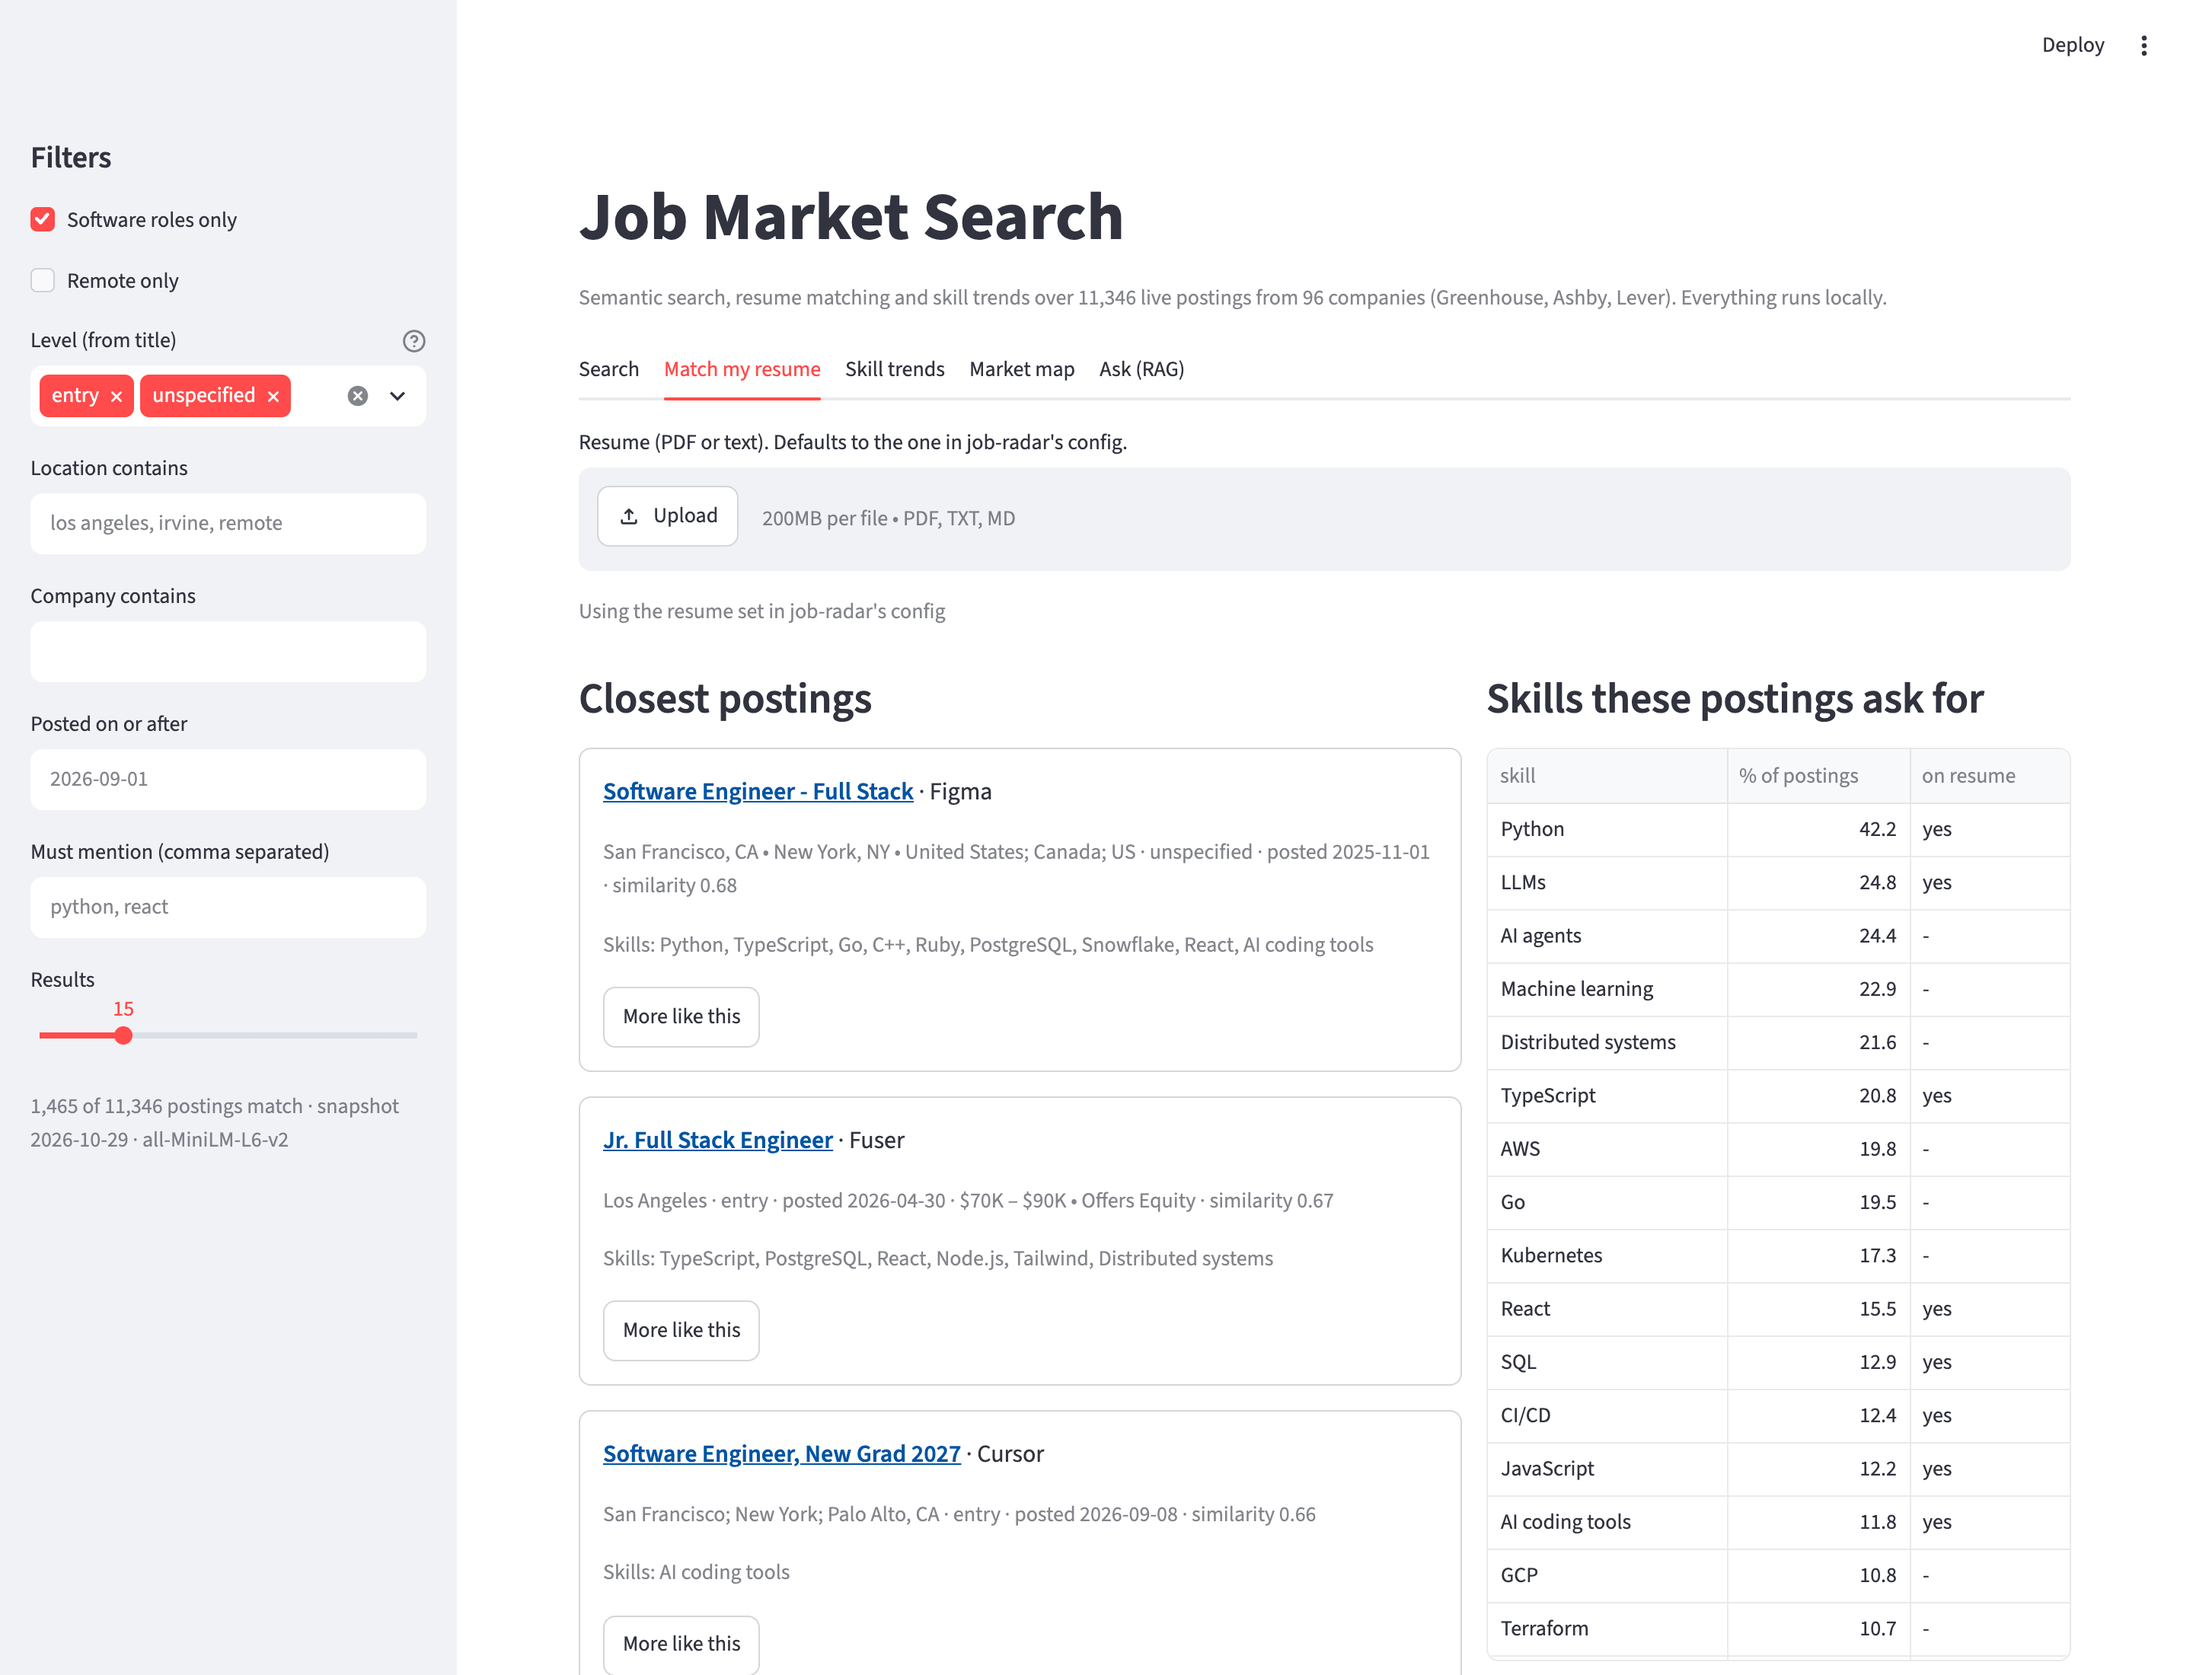
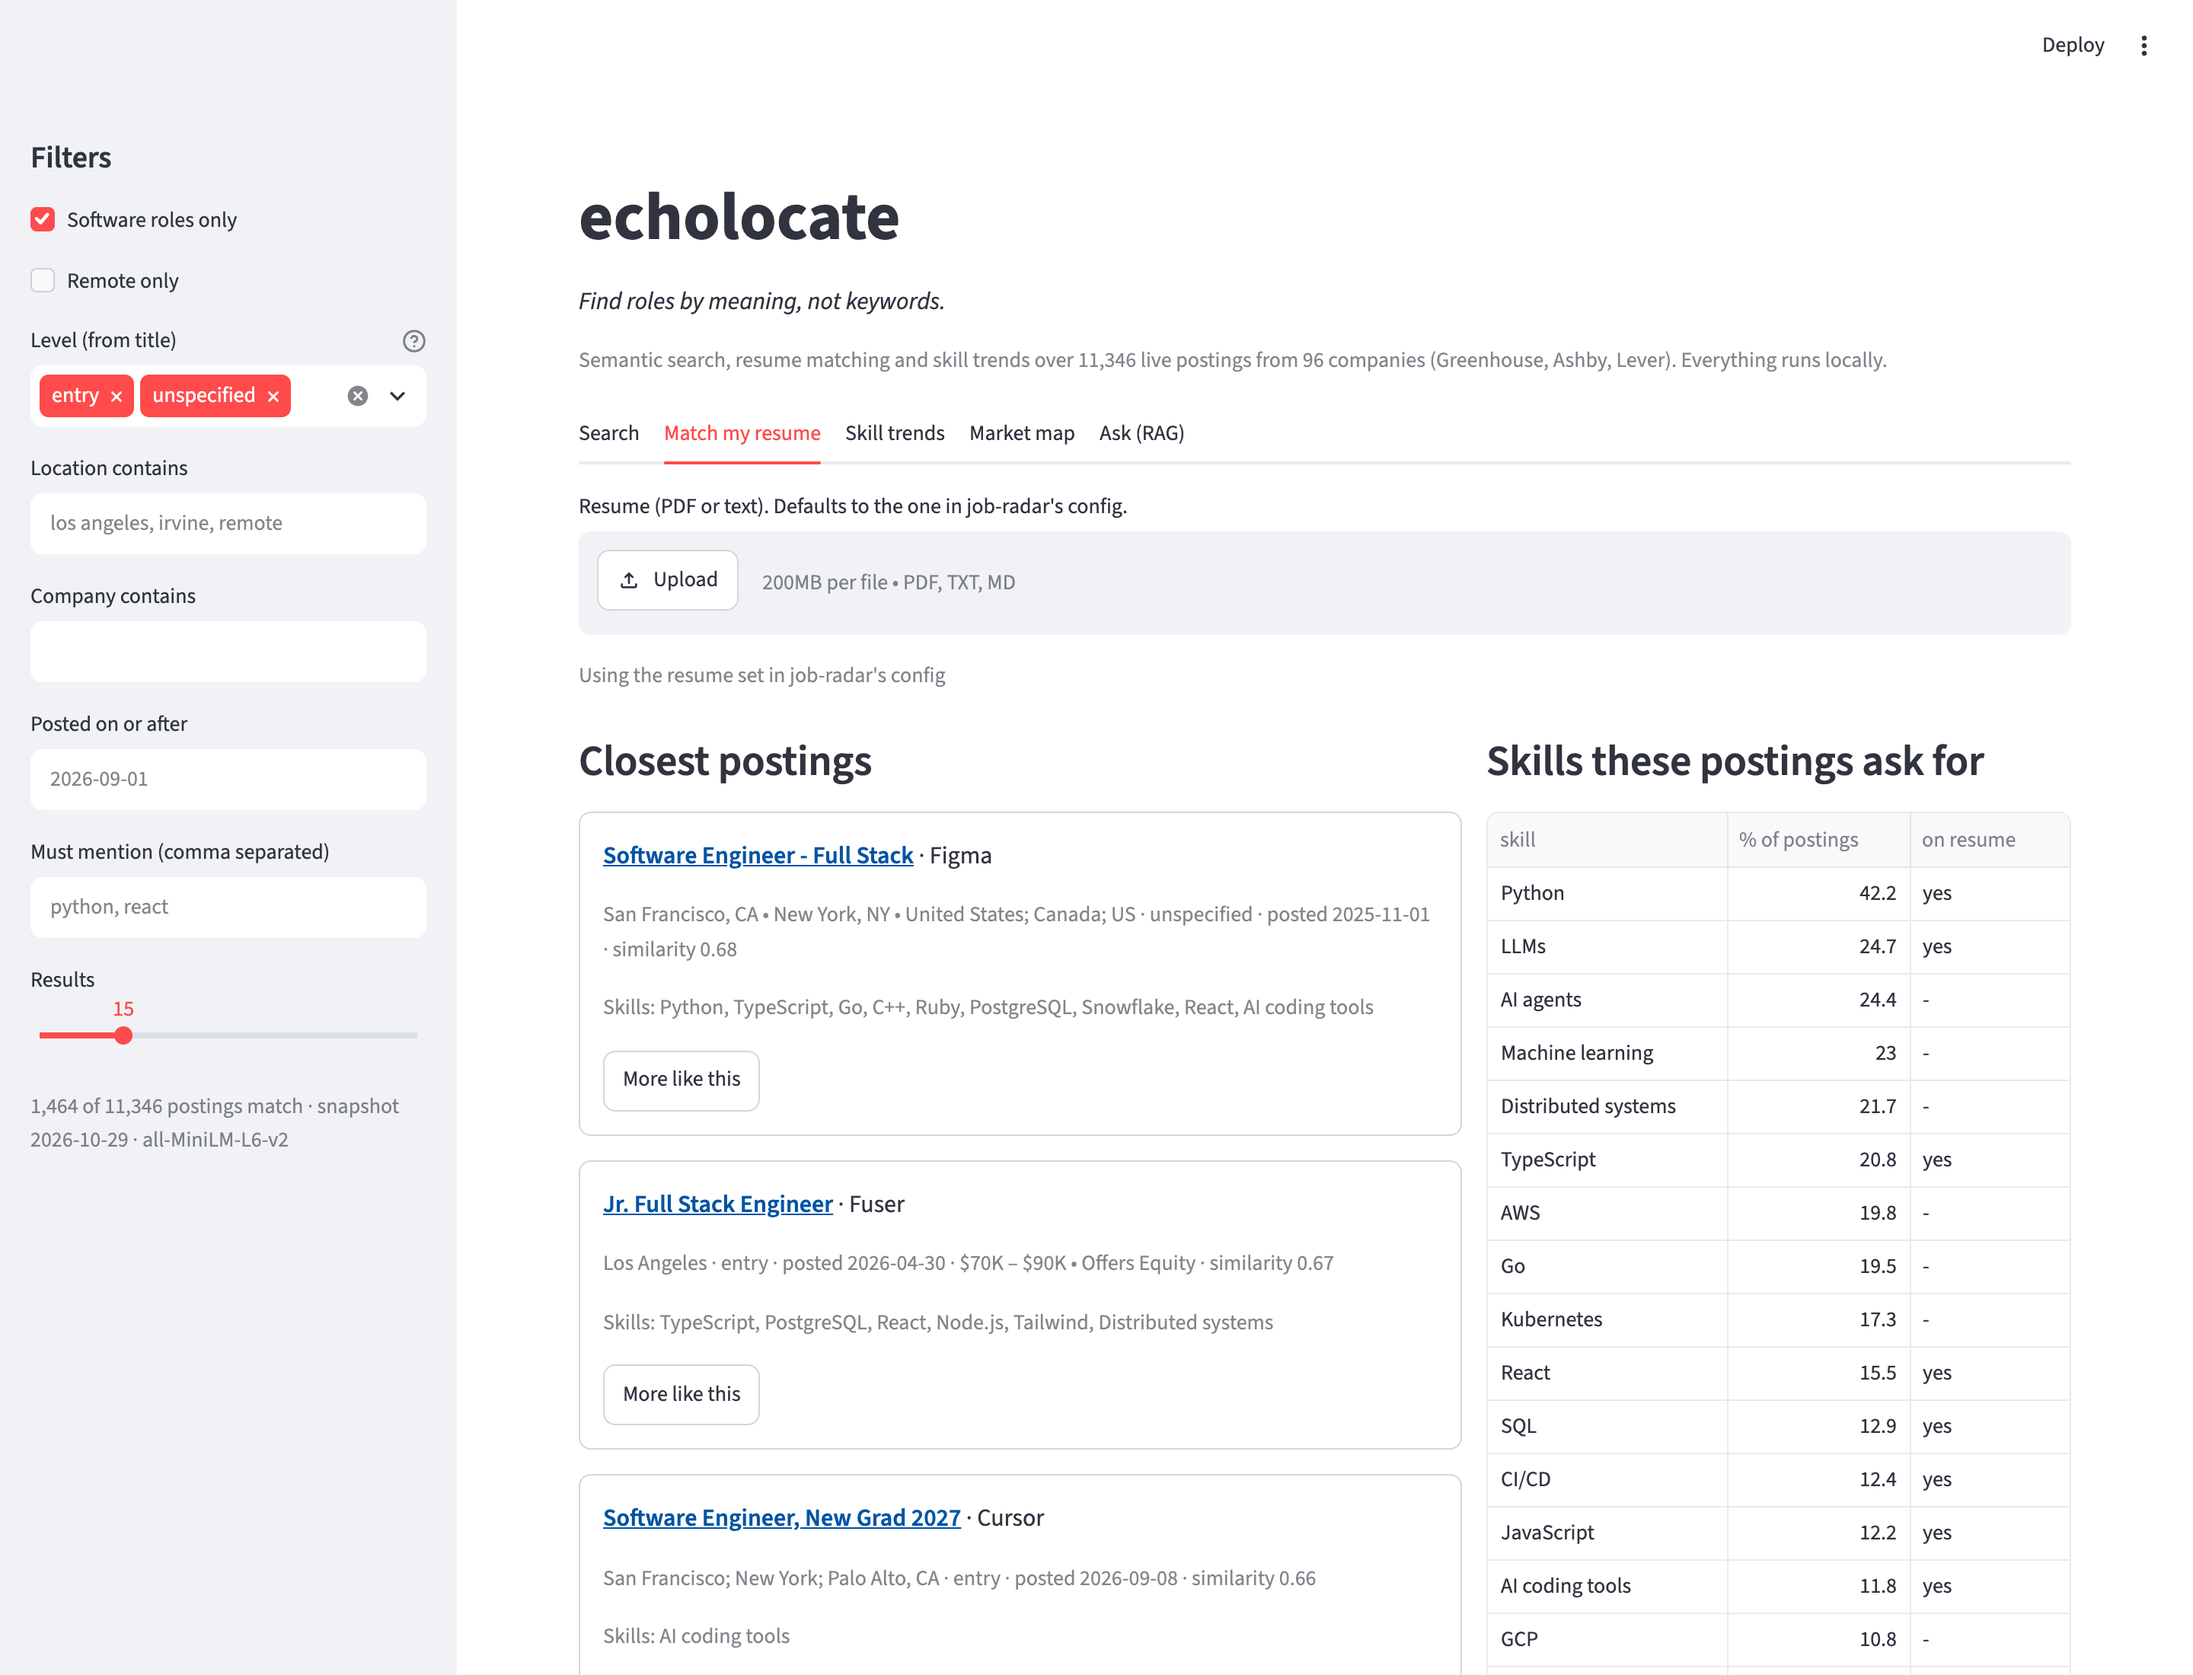
refactor: rename project to echolocate; treat "X or remote" as a preference, not a filter

diff --git a/app.py b/app.py
@@ -8,12 +8,12 @@ import pandas as pd
 import plotly.express as px
 import streamlit as st
 
-from job_market_search import config, skills
-from job_market_search.search import Filters, Searcher
-from job_market_search.store import Index, SentenceEmbedder
-from job_market_search.text import LEVELS, read_resume
+from echolocate import config, skills
+from echolocate.search import Filters, Searcher
+from echolocate.store import Index, SentenceEmbedder
+from echolocate.text import LEVELS, read_resume
 
-st.set_page_config(page_title="Job Market Search", page_icon="🔎", layout="wide")
+st.set_page_config(page_title="echolocate", page_icon="🔎", layout="wide")
 
 
 @st.cache_resource(show_spinner="Loading index and embedding model ...")
@@ -26,7 +26,7 @@ def load(db_mtime: float):
 
 
 if not config.DB.exists():
-    st.error("No index yet. Run `python -m job_market_search index` first.")
+    st.error("No index yet. Run `python -m echolocate index` first.")
     st.stop()
 searcher = load(config.DB.stat().st_mtime)
 ix = searcher.ix
@@ -79,7 +79,8 @@ def show_results(res: pd.DataFrame, snippet: bool = False):
                 st.session_state["similar_title"] = f"{r['title']} · {r['company']}"
 
 
-st.title("Job Market Search")
+st.title("echolocate")
+st.markdown("*Find roles by meaning, not keywords.*")
 st.caption(f"Semantic search, resume matching and skill trends over {len(df):,} live postings from "
            f"{df['company'].nunique():,} companies (Greenhouse, Ashby, Lever). Everything runs locally.")
 
@@ -116,7 +117,7 @@ with tabs[1]:
         text = read_resume(default)
         st.caption("Using the resume set in job-radar's config")
     else:
-        st.warning("No resume found. Upload one, or set JMS_RESUME.")
+        st.warning("No resume found. Upload one, or set ECHO_RESUME.")
     if text:
         st.session_state["tab"] = "resume"
         res = searcher.similar_to_text(text, f, k)
@@ -127,7 +128,7 @@ with tabs[1]:
             show_results(res)
         with c2:
             st.subheader("Skills these postings ask for")
-            from job_market_search.trends import demand
+            from echolocate.trends import demand
             top = demand(df[f.mask(df)]).head(25)
             top["on resume"] = top["skill"].isin(have).map({True: "yes", False: "-"})
             st.dataframe(top[["skill", "share", "on resume"]].rename(columns={"share": "% of postings"}),
@@ -135,7 +136,7 @@ with tabs[1]:
 
 # --- Trends -----------------------------------------------------------------------------
 with tabs[2]:
-    from job_market_search.trends import by_posted_month, demand, over_time, rising
+    from echolocate.trends import by_posted_month, demand, over_time, rising
     sub = df[f.mask(df)]
     d = demand(sub)
     st.subheader(f"Skill demand in the {ix.latest_date} snapshot ({len(sub):,} postings)")
@@ -169,7 +170,7 @@ with tabs[2]:
 
 # --- Map --------------------------------------------------------------------------------
 with tabs[3]:
-    from job_market_search.clusters import cluster_map
+    from echolocate.clusters import cluster_map
     c1, c2 = st.columns([1, 3])
     method = c1.radio("Clustering", ["hdbscan", "kmeans"], help="HDBSCAN finds its own number of clusters "
                       "and leaves outliers unclustered; KMeans assigns everything to 20 clusters.")
@@ -193,7 +194,7 @@ with tabs[3]:
 
 # --- RAG --------------------------------------------------------------------------------
 with tabs[4]:
-    from job_market_search.rag import ask, gather, ollama_status
+    from echolocate.rag import ask, gather, ollama_status
     ok, msg = ollama_status()
     st.caption(("✅ " if ok else "⚠ ") + msg)
     question = st.text_input("Ask about the postings (uses the sidebar filters)",

diff --git a/tests/test_core.py b/tests/test_core.py
@@ -4,10 +4,10 @@ import zlib
 import numpy as np
 import pytest
 
-from job_market_search import skills, store
-from job_market_search.search import Filters, Searcher, _rrf
-from job_market_search.text import chunk, is_software, level
-from job_market_search.trends import demand, over_time, rising
+from echolocate import skills, store
+from echolocate.search import Filters, Searcher, _rrf
+from echolocate.text import chunk, is_software, level
+from echolocate.trends import demand, over_time, rising
 
 
 class FakeEmbedder:
@@ -130,7 +130,7 @@ def test_trends(built):
 
 
 def test_parse_query_turns_words_into_filters():
-    from job_market_search.search import parse_query
+    from echolocate.search import parse_query
     q, f, notes = parse_query("remote new grad roles using Next.js", Filters())
     assert f.remote_only and f.levels == ["entry", "unspecified"]
     assert "remote" not in q.lower() and "roles" not in q.lower() and "Next.js" in q
@@ -153,8 +153,14 @@ def test_duplicate_roles_collapse(tmp_path):
 
 
 def test_rag_gather_applies_question_filters(built):
-    from job_market_search.rag import gather
+    from echolocate.rag import gather
     db, _ = built
     s = Searcher(store.Index.load(db), FakeEmbedder())
     got = gather(s, "which remote roles use React?", Filters())
     assert got and all(x["remote"] for x in got)
+
+
+def test_or_remote_is_not_a_filter():
+    from echolocate.search import parse_query
+    q, f, notes = parse_query("frontend React in Irvine or remote", Filters())
+    assert not f.remote_only and not notes and "remote" in q

diff --git a/echolocate/config.py b/echolocate/config.py
@@ -8,22 +8,22 @@ from pathlib import Path
 
 ROOT = Path(__file__).resolve().parent.parent
 JOB_RADAR = Path(os.environ.get("JOB_RADAR_DIR", ROOT.parent / "job-radar")).expanduser()
-DUMPS = Path(os.environ.get("JMS_DUMPS", JOB_RADAR / "out" / "all")).expanduser()
-DATA = Path(os.environ.get("JMS_DATA", ROOT / "data")).expanduser()
+DUMPS = Path(os.environ.get("ECHO_DUMPS", JOB_RADAR / "out" / "all")).expanduser()
+DATA = Path(os.environ.get("ECHO_DATA", ROOT / "data")).expanduser()
 DB = DATA / "index.sqlite"
 
 # all-MiniLM-L6-v2: 384-dim, ~80 MB, fast on a laptop CPU or Apple GPU.
-MODEL = os.environ.get("JMS_MODEL", "sentence-transformers/all-MiniLM-L6-v2")
+MODEL = os.environ.get("ECHO_MODEL", "sentence-transformers/all-MiniLM-L6-v2")
 # CPU by default: MiniLM is small enough, and the PyTorch Apple-GPU (mps) backend crashes on
-# older macOS versions. Set JMS_DEVICE=mps or cuda to use a GPU.
-DEVICE = os.environ.get("JMS_DEVICE", "cpu")
+# older macOS versions. Set ECHO_DEVICE=mps or cuda to use a GPU.
+DEVICE = os.environ.get("ECHO_DEVICE", "cpu")
 OLLAMA_URL = os.environ.get("OLLAMA_URL", "http://localhost:11434")
 OLLAMA_MODEL = os.environ.get("OLLAMA_MODEL", "llama3.2:3b")
 
 
 def resume_path() -> Path | None:
     """The resume PDF that job-radar is configured to use (config.local.json, else config.json)."""
-    if p := os.environ.get("JMS_RESUME"):
+    if p := os.environ.get("ECHO_RESUME"):
         return Path(p).expanduser()
     for name in ("config.local.json", "config.json"):
         cfg = JOB_RADAR / name

diff --git a/echolocate/__main__.py b/echolocate/__main__.py
@@ -1,4 +1,4 @@
-"""Command line: python -m job_market_search <command>
+"""Command line: python -m echolocate <command>
 
   index                          read new job-radar dumps and embed new/changed postings
   search "query" [filters]       hybrid semantic + keyword search
@@ -52,7 +52,7 @@ def _print(df: pd.DataFrame):
 
 
 def main(argv=None):
-    ap = argparse.ArgumentParser(prog="job_market_search", description=__doc__,
+    ap = argparse.ArgumentParser(prog="echolocate", description=__doc__,
                                  formatter_class=argparse.RawDescriptionHelpFormatter)
     sub = ap.add_subparsers(dest="cmd", required=True)
     sub.add_parser("index")

diff --git a/echolocate/store.py b/echolocate/store.py
@@ -219,7 +219,7 @@ class Index:
         con.close()
         rows = [r for r in rows if r[0] in pos]
         if not rows:
-            raise SystemExit("The index is empty. Run `python -m job_market_search index` first.")
+            raise SystemExit("The index is empty. Run `python -m echolocate index` first.")
         owner = np.fromiter((pos[r[0]] for r in rows), dtype=np.int64, count=len(rows))
         vecs = np.stack([np.frombuffer(r[2], dtype=np.float16) for r in rows]).astype(np.float32)
         pv = np.zeros((len(df), vecs.shape[1]), dtype=np.float32)

diff --git a/echolocate/search.py b/echolocate/search.py
@@ -77,6 +77,8 @@ def parse_query(query: str, filters: Filters) -> tuple[str, Filters, list[str]]:
     for pat, what in _INTENTS:
         if not re.search(pat, q, re.I):
             continue
+        if what == "remote" and re.search(r"\bor\s+(fully\s+)?remote\b|\bremote\s+or\b", q, re.I):
+            continue  # "Irvine or remote" is a preference, not a remote-only filter
         if what == "remote" and not filters.remote_only:
             filters = replace(filters, remote_only=True)
             notes.append("remote only")

diff --git a/echolocate/evaluate.py b/echolocate/evaluate.py
@@ -5,7 +5,7 @@ a posting is relevant (title pattern + description pattern). The rules are keywo
 which favours the keyword retriever a little; treat the numbers as a sanity check that
 shows the trade-offs, not as a leaderboard.
 
-    python -m job_market_search.evaluate
+    python -m echolocate.evaluate
 """
 
 from __future__ import annotations
